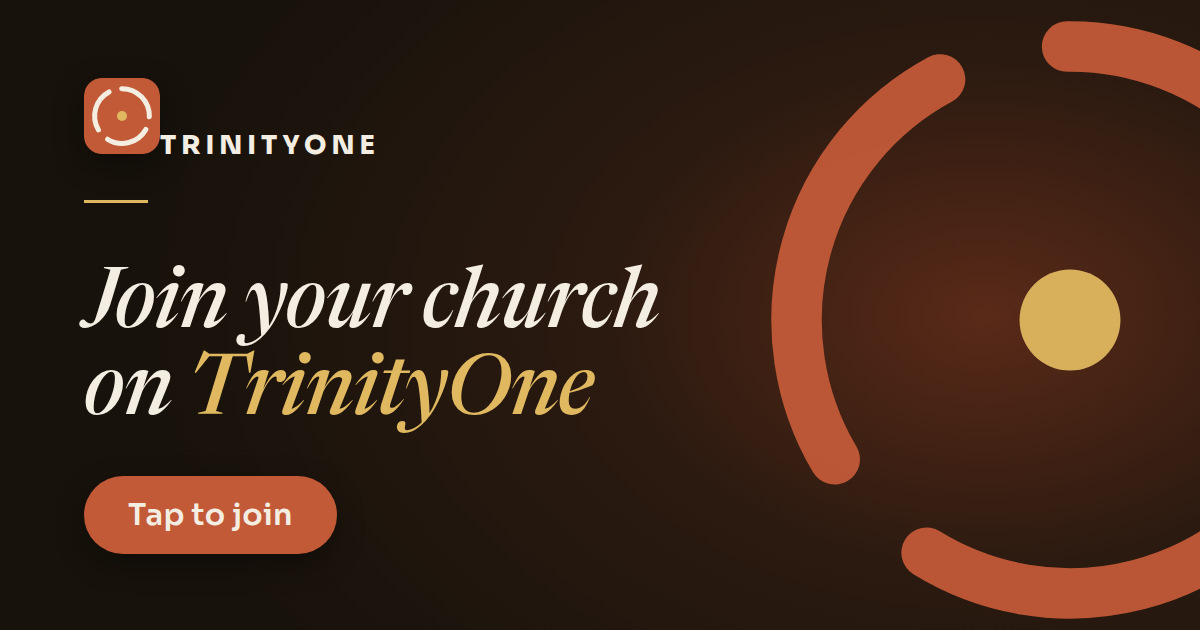
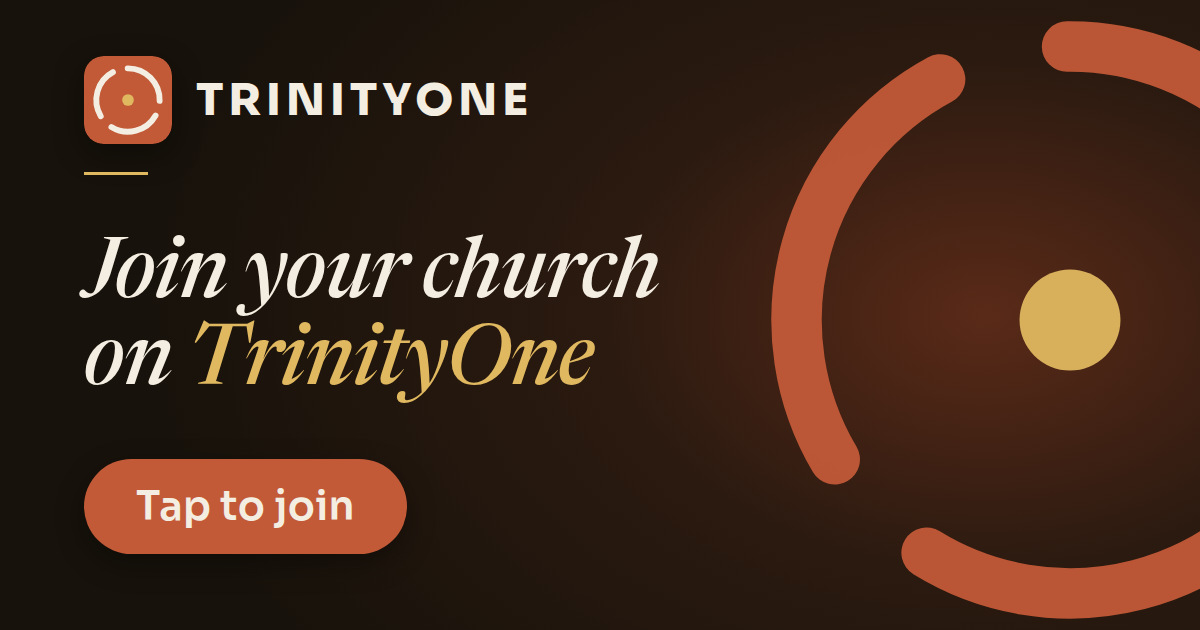
fix(site): audit fixes for the link-preview cards
M1 wordmark row now flexes (body.v2 .mid.brand{display:flex} beat by .mid{display:block}); icon/wordmark gap and centring viewed.
M2 test asserts the exact card URL per page (join -> app host og-join-v2.jpg; others -> og-cover-v2.jpg); both sabotages now fail.
M3 DEPLOY ORDER: deploy Pages BEFORE a8/gateway, or previews cache a missing image (also a comment in make-og-cards.sh).
L1 wordmark 44px, tagline 40px, pill 40px, viewed at 300px wide; tagline shortened to 'Scripture, prayer, groups and care on a server you own.' to fit two lines clear of the ring.
L2 make-og-cards.sh uses its own --user-data-dir under ~/snap/chromium/common (snap cannot write /tmp or ~/.cache), removed by trap.
L3 public-verse.mjs callers: scripts/gateway.mjs:7633, the two verse tests, the new link-preview test, and the relay bundle
   (public-verse.mjs is shipped in it; scripts/relay-bundle-honesty.test.mjs:64) - that test re-run and passes.
NITs: trap removes .og-tmp-*.png (also gitignored); up-front check for chromium/convert/identify; twitter:image:alt added to public-verse.mjs and asserted.

Claude-Session: https://claude.ai/code/session_011roaxWc9GnrTDyizQcCh6A

diff --git a/scripts/og-card.html b/scripts/og-card.html
@@ -66,17 +66,18 @@
     background:radial-gradient(70% 90% at 82% 50%,#5a2a18 0%,#2b1a10 45%,#17120B 100%)}
   body.v2 .card{display:none}
   body.v2 .mid{display:block}
+  body.v2 .mid.brand{display:flex}  /* must follow .mid{display:block} or the row never flexes */
   .mid.ring{position:absolute;right:-250px;top:-60px;width:760px;height:760px;opacity:.95}
-  .mid.brand{position:absolute;left:84px;top:78px;display:flex;align-items:center;gap:20px}
-  .brand img{width:76px;height:76px;border-radius:18px;box-shadow:0 10px 30px rgba(0,0,0,.4)}
-  .brand b{font-weight:800;font-size:26px;letter-spacing:5px;text-transform:uppercase}
-  .mid.rule{position:absolute;left:84px;top:200px;width:64px;height:3px;background:var(--gold-soft)}
-  .mid.h2{position:absolute;left:84px;top:230px;width:600px;font-family:var(--serif);font-style:italic;
+  .mid.brand{position:absolute;left:84px;top:56px;display:none;align-items:center;gap:24px}
+  .brand img{width:88px;height:88px;border-radius:20px;box-shadow:0 10px 30px rgba(0,0,0,.4)}
+  .brand b{font-weight:800;font-size:44px;letter-spacing:5px;text-transform:uppercase}
+  .mid.rule{position:absolute;left:84px;top:172px;width:64px;height:3px;background:var(--gold-soft)}
+  .mid.h2{position:absolute;left:84px;top:200px;width:600px;font-family:var(--serif);font-style:italic;
     font-weight:500;font-size:84px;line-height:1.03;letter-spacing:-1.5px}
   .h2 em{color:var(--gold-soft)}
-  .mid.tag{position:absolute;left:84px;bottom:76px;width:560px;font-size:25px;line-height:1.4;color:#d6c9b3}
-  .mid.pill{position:absolute;left:84px;bottom:76px;padding:20px 44px;border-radius:999px;
-    background:var(--clay);color:var(--paper);font-weight:600;font-size:30px;letter-spacing:.3px;
+  .mid.tag{position:absolute;left:84px;bottom:44px;width:620px;font-size:40px;line-height:1.28;color:#d6c9b3}
+  .mid.pill{position:absolute;left:84px;bottom:76px;padding:22px 52px;border-radius:999px;
+    background:var(--clay);color:var(--paper);font-weight:600;font-size:40px;letter-spacing:.3px;
     box-shadow:0 10px 28px rgba(0,0,0,.35)}
   body.v2-cover .pill{display:none} body.v2-join .tag{display:none}
 </style>
@@ -113,7 +114,7 @@
     }
   };
   var V2 = {
-    cover2: {h: 'A private home for <em>your church.</em>', tag: 'Scripture · prayer · groups · serving · care — on a server you own.', pill: ''},
+    cover2: {h: 'A private home for <em>your church.</em>', tag: 'Scripture, prayer, groups and care on a server you own.', pill: ''},
     join2:  {h: 'Join your church on <em>TrinityOne</em>', tag: '', pill: 'Tap to join'}
   };
   var v = (new URLSearchParams(location.search).get('v') || 'join');
